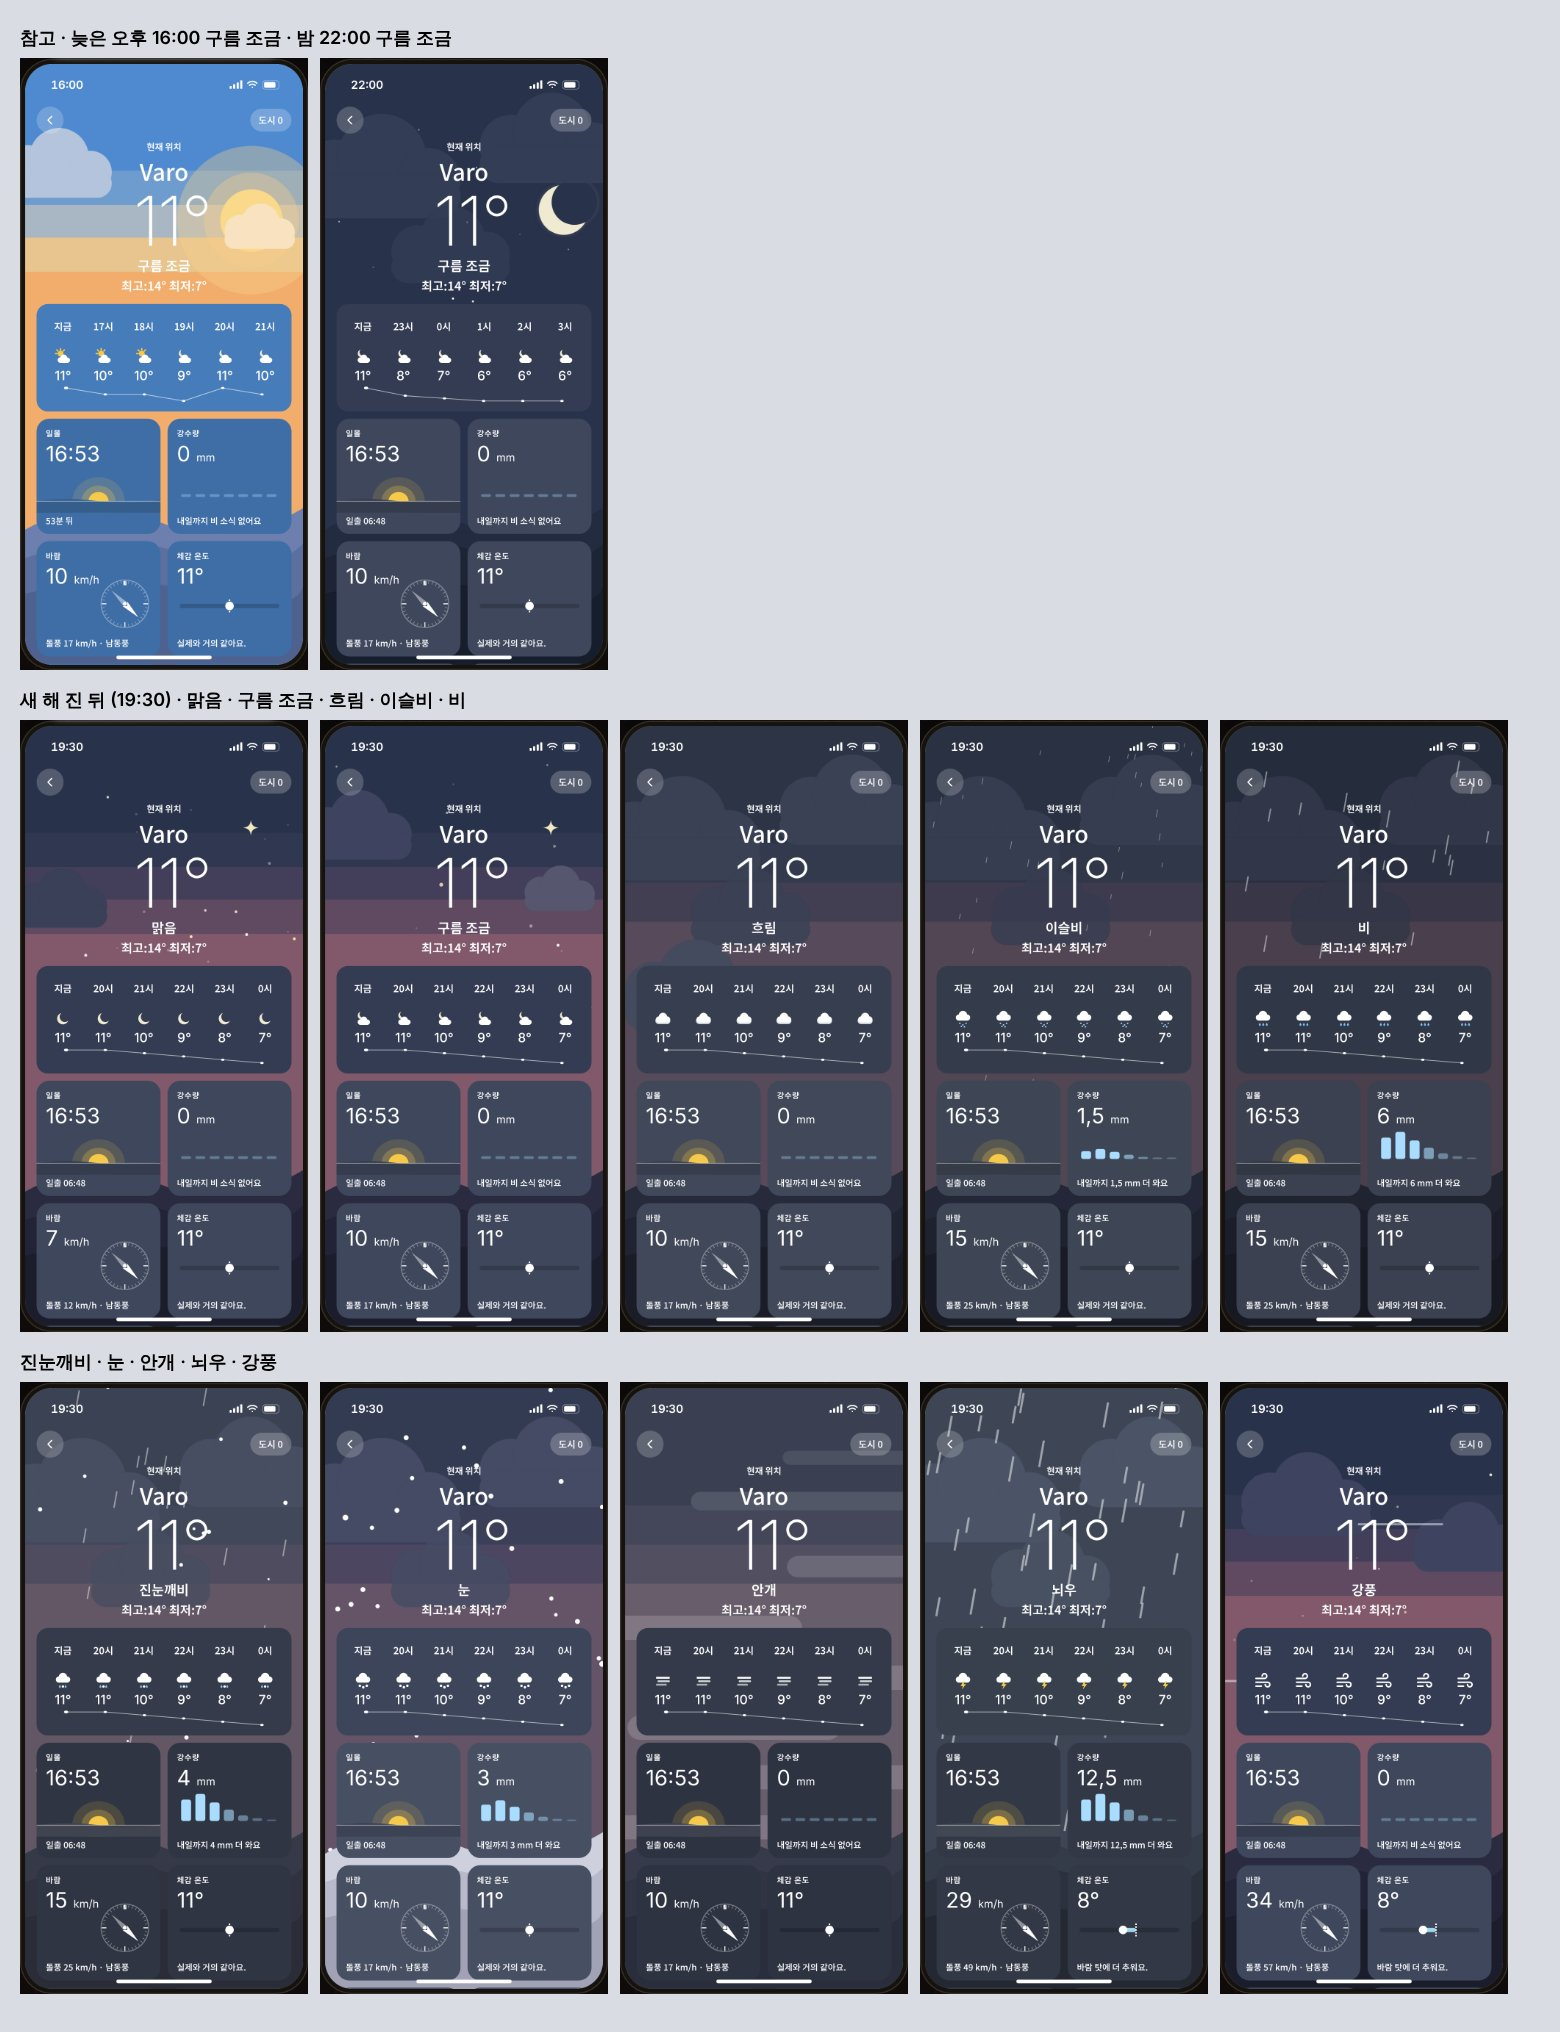
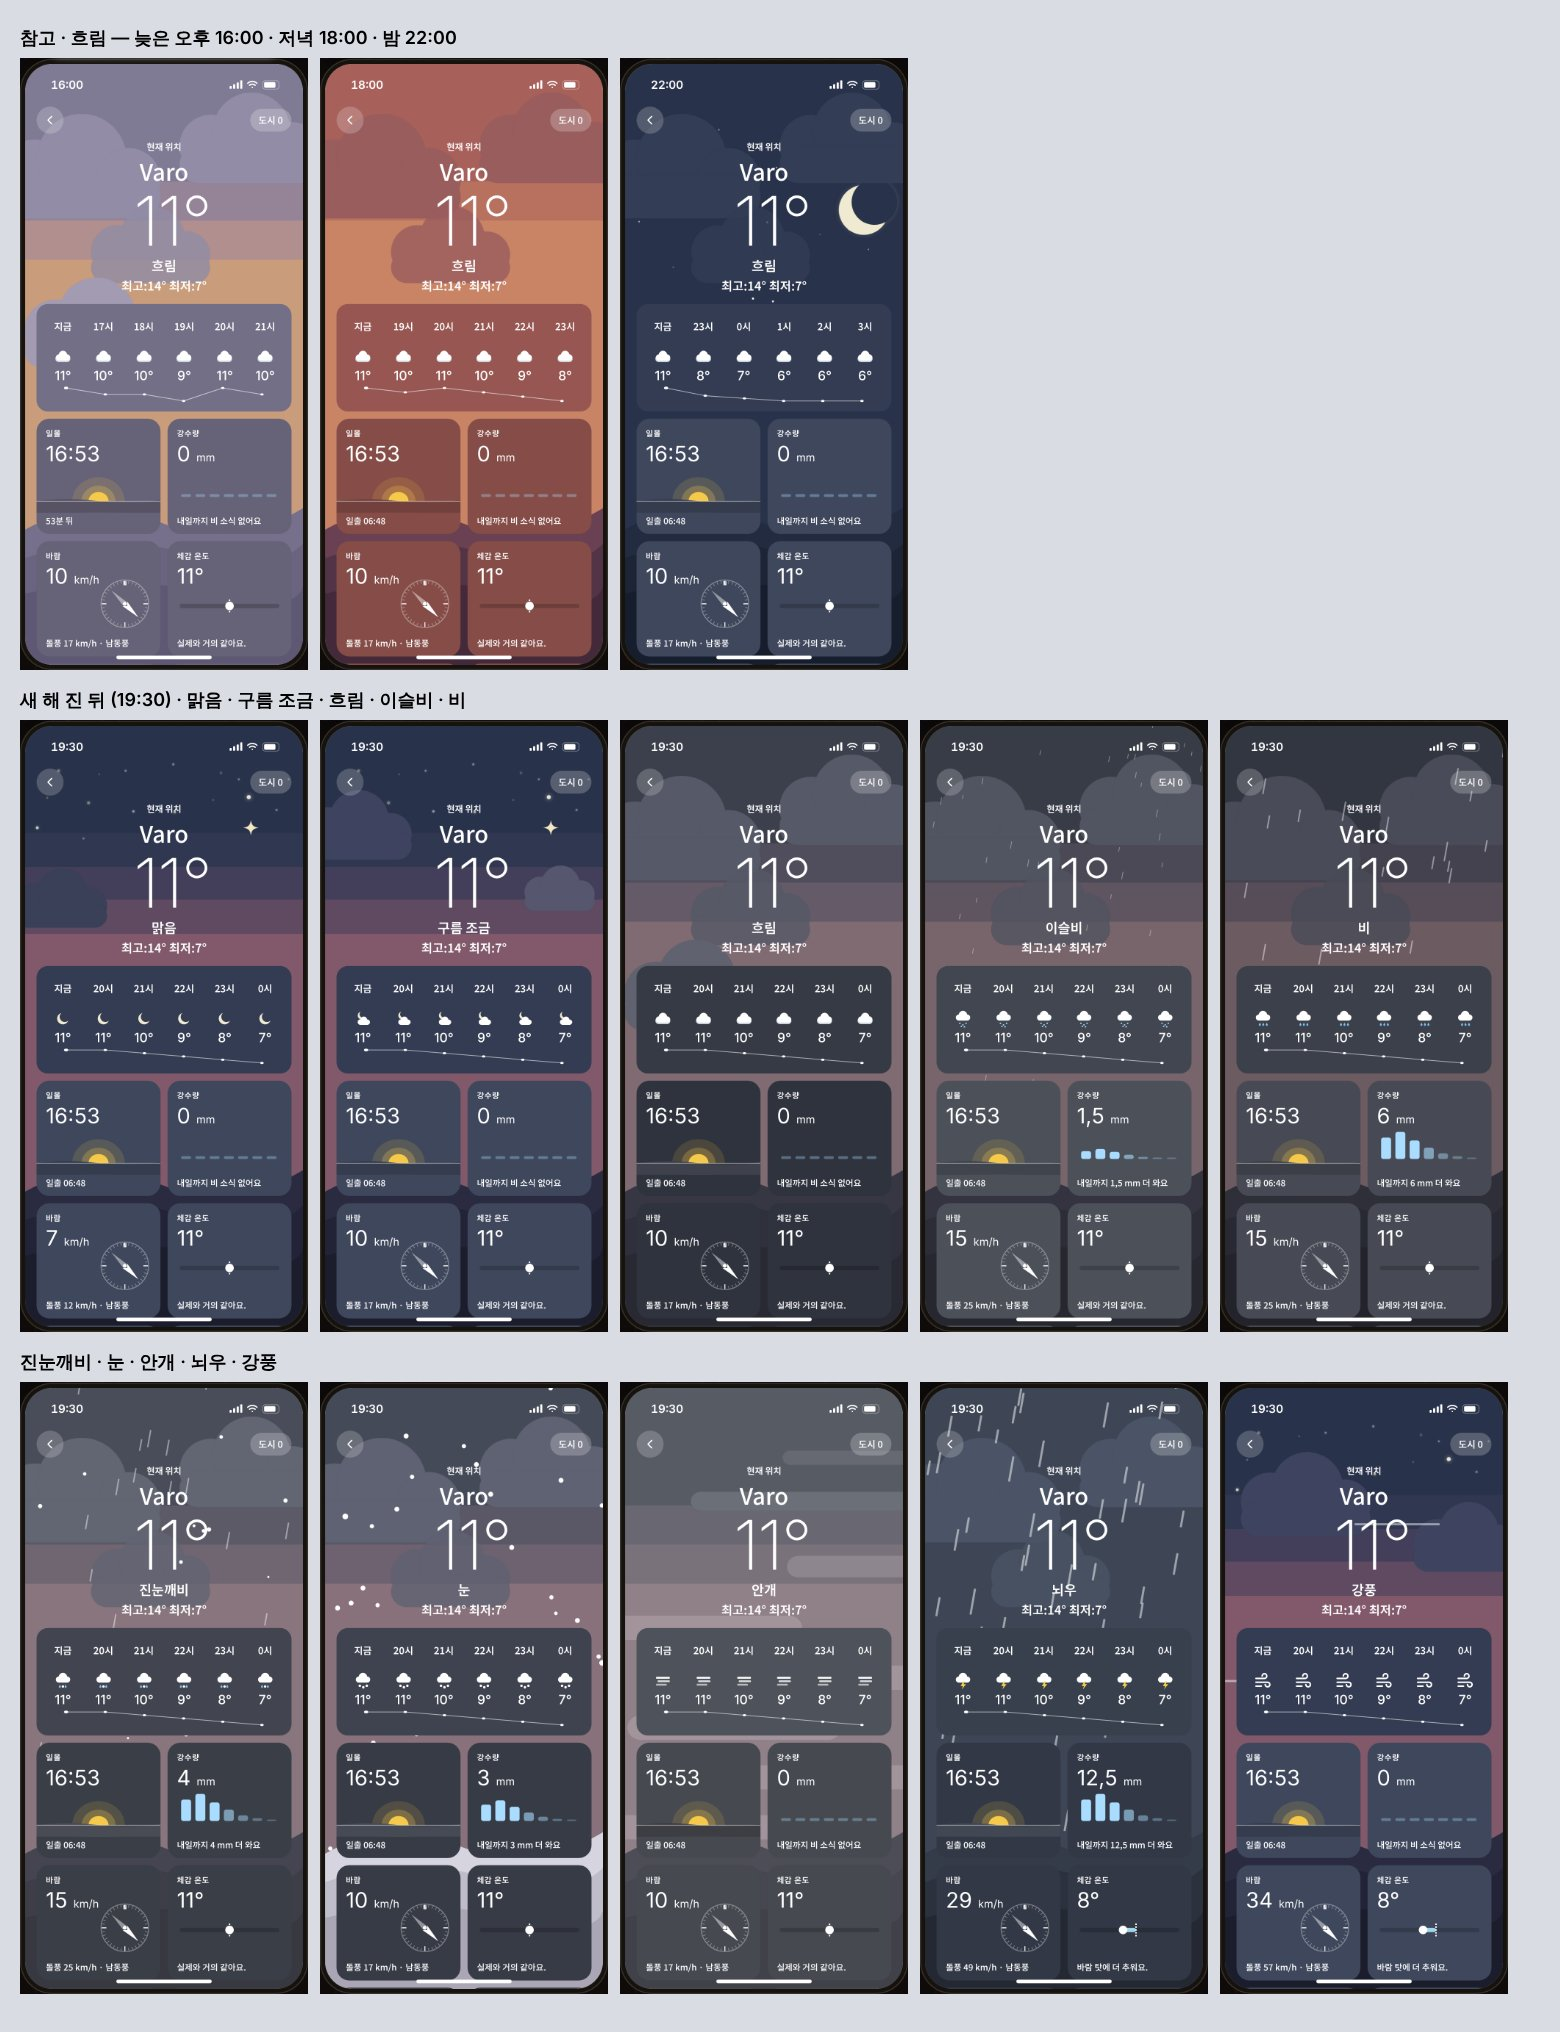
Weather mockup: 해 진 뒤 grey skies taken from its own clear sky (as every other hour), stars with a faint glow (draft, not approved yet)
Claude-Session: https://claude.ai/code/session_01TBUyc4nvbfrUF2uL1hRtAL

diff --git a/src/phonelifeapps.js b/src/phonelifeapps.js
@@ -862,14 +862,16 @@ const MORN = {
          snow: { sky: '#879cbd', bands: [[165, '#a0afc6'], [220, '#c2c1c8'], [275, '#e8caa8']], cb: [[48, '#a0afc6'], [64, '#c2c1c8'], [78, '#e8caa8']], hills: ['#f8eee2', '#e9ded6', '#d7cfcc'], cloud: '#a6b3c8' },
          fog: { sky: '#9aa0aa', bands: [[165, '#aaacb1'], [220, '#c0b9b2'], [275, '#d9c2a6']], cb: [[48, '#aaacb1'], [64, '#c0b9b2'], [78, '#d9c2a6']], hills: ['#8f939c', '#848891', '#797d86'] } }
 };
-// 해 진 뒤 (19–21): the sun already down, not yet night — the night's own sky up top, the last of the light low down in violet, rose and
+// 해 진 뒤 (19–21): the sun already down, not yet night — the clear night's sky up top, the last of the light low down in violet, rose and
 // a dusty pink. Built the way 늦은 오후 is (the same fields, so the same clouds, fog and snow as every other hour), only no sun:
 // flat stars instead, and the evening star (a flat four-point star low in the west)
 const DUSK = {
     clear: { sky: '#28324a', bands: [[150, '#303750'], [198, '#433f5a'], [244, '#5f4a62'], [292, '#82596a']], cb: [[40, '#303750'], [56, '#433f5a'], [70, '#5f4a62'], [82, '#82596a']], hills: ['#2a2a40', '#222336', '#1b1c2c'], puff: '#3a4058', cloud: '#3e4460', front: '#56566f' },
-    grey: { sky: '#2c3446', bands: [[165, '#333a4e'], [220, '#423f53'], [275, '#574a5a']], cb: [[48, '#333a4e'], [64, '#423f53'], [78, '#574a5a']], hills: ['#262a3a', '#202331', '#1a1c28'], cloud: '#3a4155', cloud2: '#444b5f' },
-    snow: { sky: '#333b52', bands: [[165, '#3b4058'], [220, '#4c4660'], [275, '#655468']], cb: [[48, '#3b4058'], [64, '#4c4660'], [78, '#655468']], hills: ['#cfd0de', '#b8b9ca', '#a1a2b6'], cloud: '#454b64' },
-    fog: { sky: '#3a4052', bands: [[165, '#434759'], [220, '#524f61'], [275, '#685d6b']], cb: [[48, '#434759'], [64, '#524f61'], [78, '#685d6b']], hills: ['#363a4a', '#303443', '#2a2e3c'] },
+    // the grey skies come from the clear one, as every other hour's do: the same bands with their colour pressed out and a little light added
+    // (흐림 most of it, 눈 a touch lighter, 안개 the most faded); 비 · 이슬비 · 진눈깨비 take 흐림 through wetSky
+    grey: { sky: '#3b404c', bands: [[165, '#504e5c'], [220, '#655a67'], [275, '#806b73']], cb: [[48, '#504e5c'], [64, '#655a67'], [78, '#806b73']], hills: ['#373744', '#2f303b', '#292933'], cloud: '#565967', cloud2: '#60626f' },
+    snow: { sky: '#454a58', bands: [[165, '#5a5767'], [220, '#6e6270'], [275, '#89717b']], cb: [[48, '#5a5767'], [64, '#6e6270'], [78, '#89717b']], hills: ['#d6d4de', '#c0bdca', '#aaa6b6'], cloud: '#5f6272' },
+    fog: { sky: '#575b64', bands: [[165, '#696772'], [220, '#7a727b'], [275, '#908087']], cb: [[48, '#696772'], [64, '#7a727b'], [78, '#908087']], hills: ['#4d4d58', '#464750', '#404149'] },
 };
 function duskPal(cond, D) {
     const c = DUSK.clear, g = DUSK.grey, sky = { sky: c.sky, bands: c.bands, cb: c.cb, hills: c.hills }, phase = 'dusk';
@@ -906,7 +908,7 @@ function scene(cond, phase) {
         for (let row = 0; row < 6; row++) for (let col = 0; col < 7; col++) { const x = 14 + col * 56 + r() * 40, y = 40 + row * 50 + r() * 34;
             if (x > 110 && x < 280 && y > 205 && y < 350) continue; if (row >= 4 && r() < 0.5) continue; pts.push([x, y]); }
         out.push(pts.slice(0, q.stars).map(([x, y], k) => { const z = k % 4 === 0 ? 6 : 4;
-            return `<i class="st" style="left: ${Math.round(x)}px; top: ${Math.round(y)}px; width: ${z}px; height: ${z}px; background: ${k % 3 === 1 ? '#f6e7c4' : '#f4f1e8'}; --d: ${(4 + r() * 4).toFixed(1)}s; --dl: -${(r() * 5).toFixed(1)}s"></i>`; }).join('')); }
+            return `<i class="st" style="left: ${Math.round(x)}px; top: ${Math.round(y)}px; width: ${z}px; height: ${z}px; background: ${k % 3 === 1 ? '#f6e7c4' : '#f4f1e8'}; box-shadow: 0 0 ${z}px ${(z / 4).toFixed(1)}px rgba(255, 246, 226, 0.35); --d: ${(4 + r() * 4).toFixed(1)}s; --dl: -${(r() * 5).toFixed(1)}s"></i>`; }).join('')); }
     else if (q.stars) out.push(Array.from({ length: q.stars }, () => `<i class="st${phase === 'dawn' ? ' fd' : ''}" style="left: ${Math.round(10 + r() * 370)}px; top: ${Math.round(60 + r() * 360)}px; --d: ${(2 + r() * 3).toFixed(1)}s; --dl: -${(r() * 4).toFixed(1)}s"></i>`).join(''));
     const sun = (x, y, rad, core, halo, cls = '') => `<span class="sun ${cls}" style="left: ${x - rad * 2.4}px; top: ${y - rad * 2.4}px; width: ${rad * 4.8}px; height: ${rad * 4.8}px"><b style="background: ${halo}"></b><b class="h2" style="background: ${halo}"></b><i style="background: ${core}; width: ${rad * 2}px; height: ${rad * 2}px"></i></span>`;
     if (q.sun === 'day') out.push(cond === 'partly' ? sun(320, 190, 42, '#f6c94a', 'rgba(255, 255, 255, 0.14)') : sun(330, 210, 46, '#f6c94a', 'rgba(255, 255, 255, 0.14)'));
